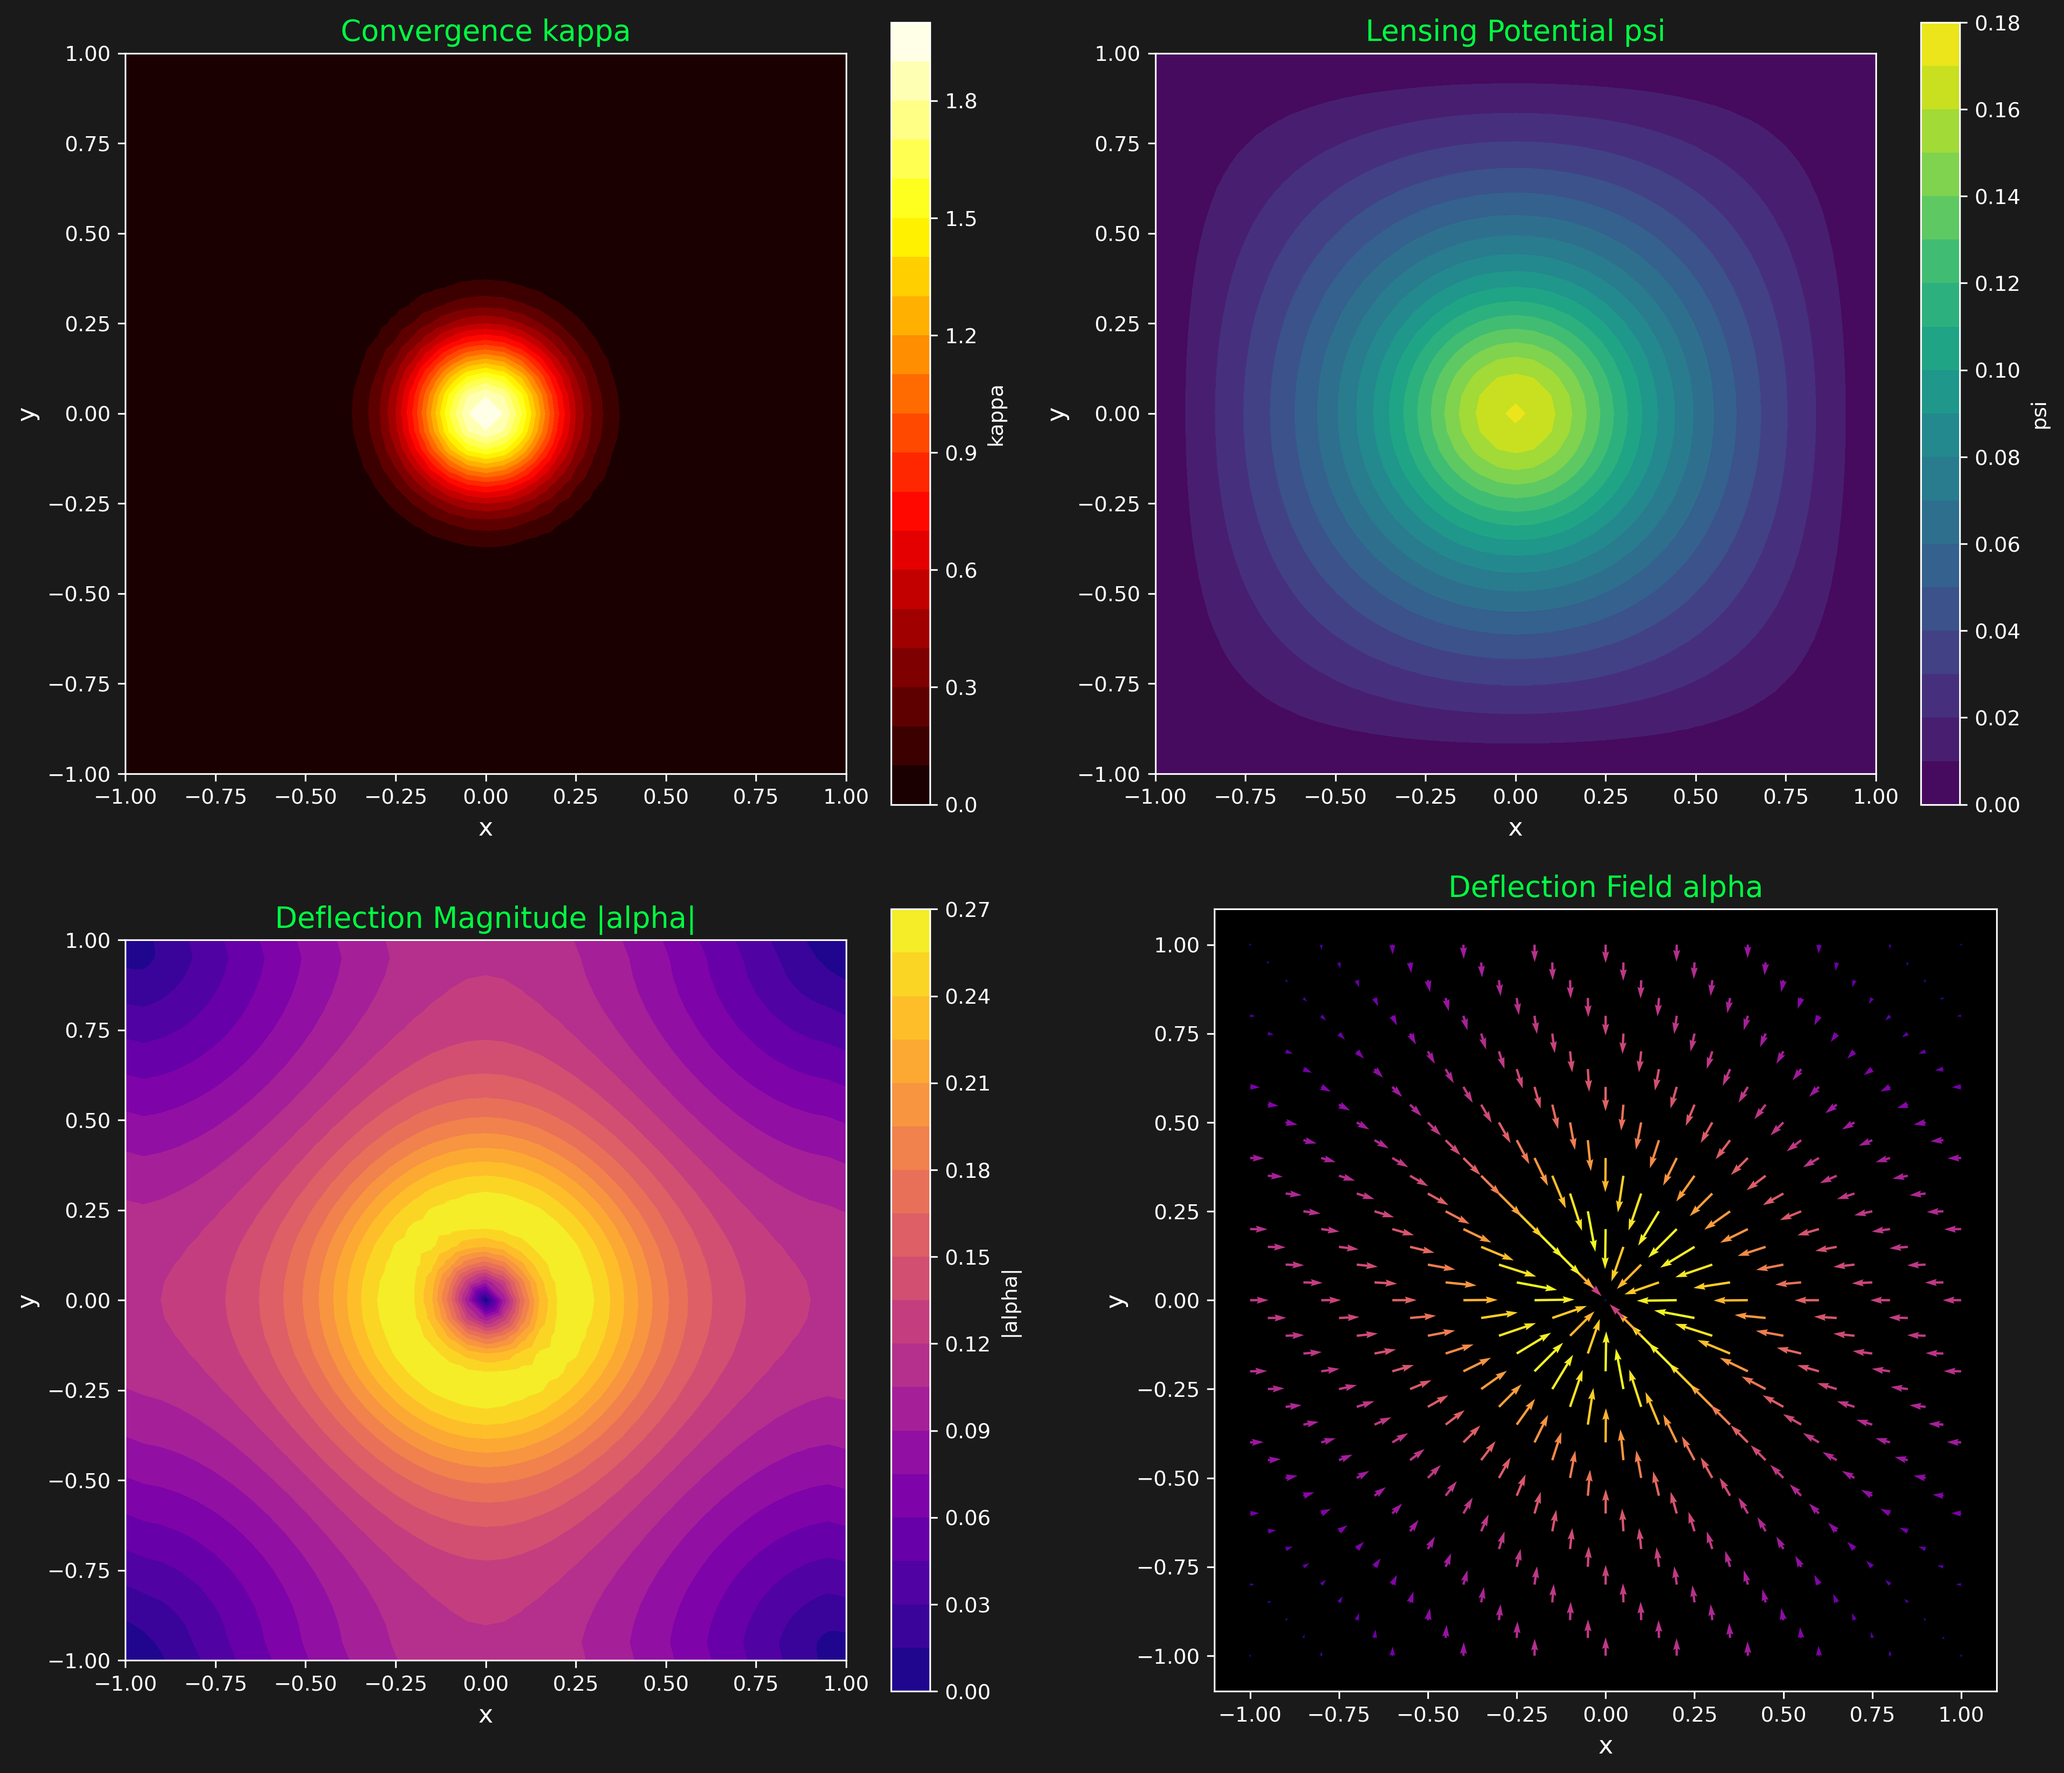
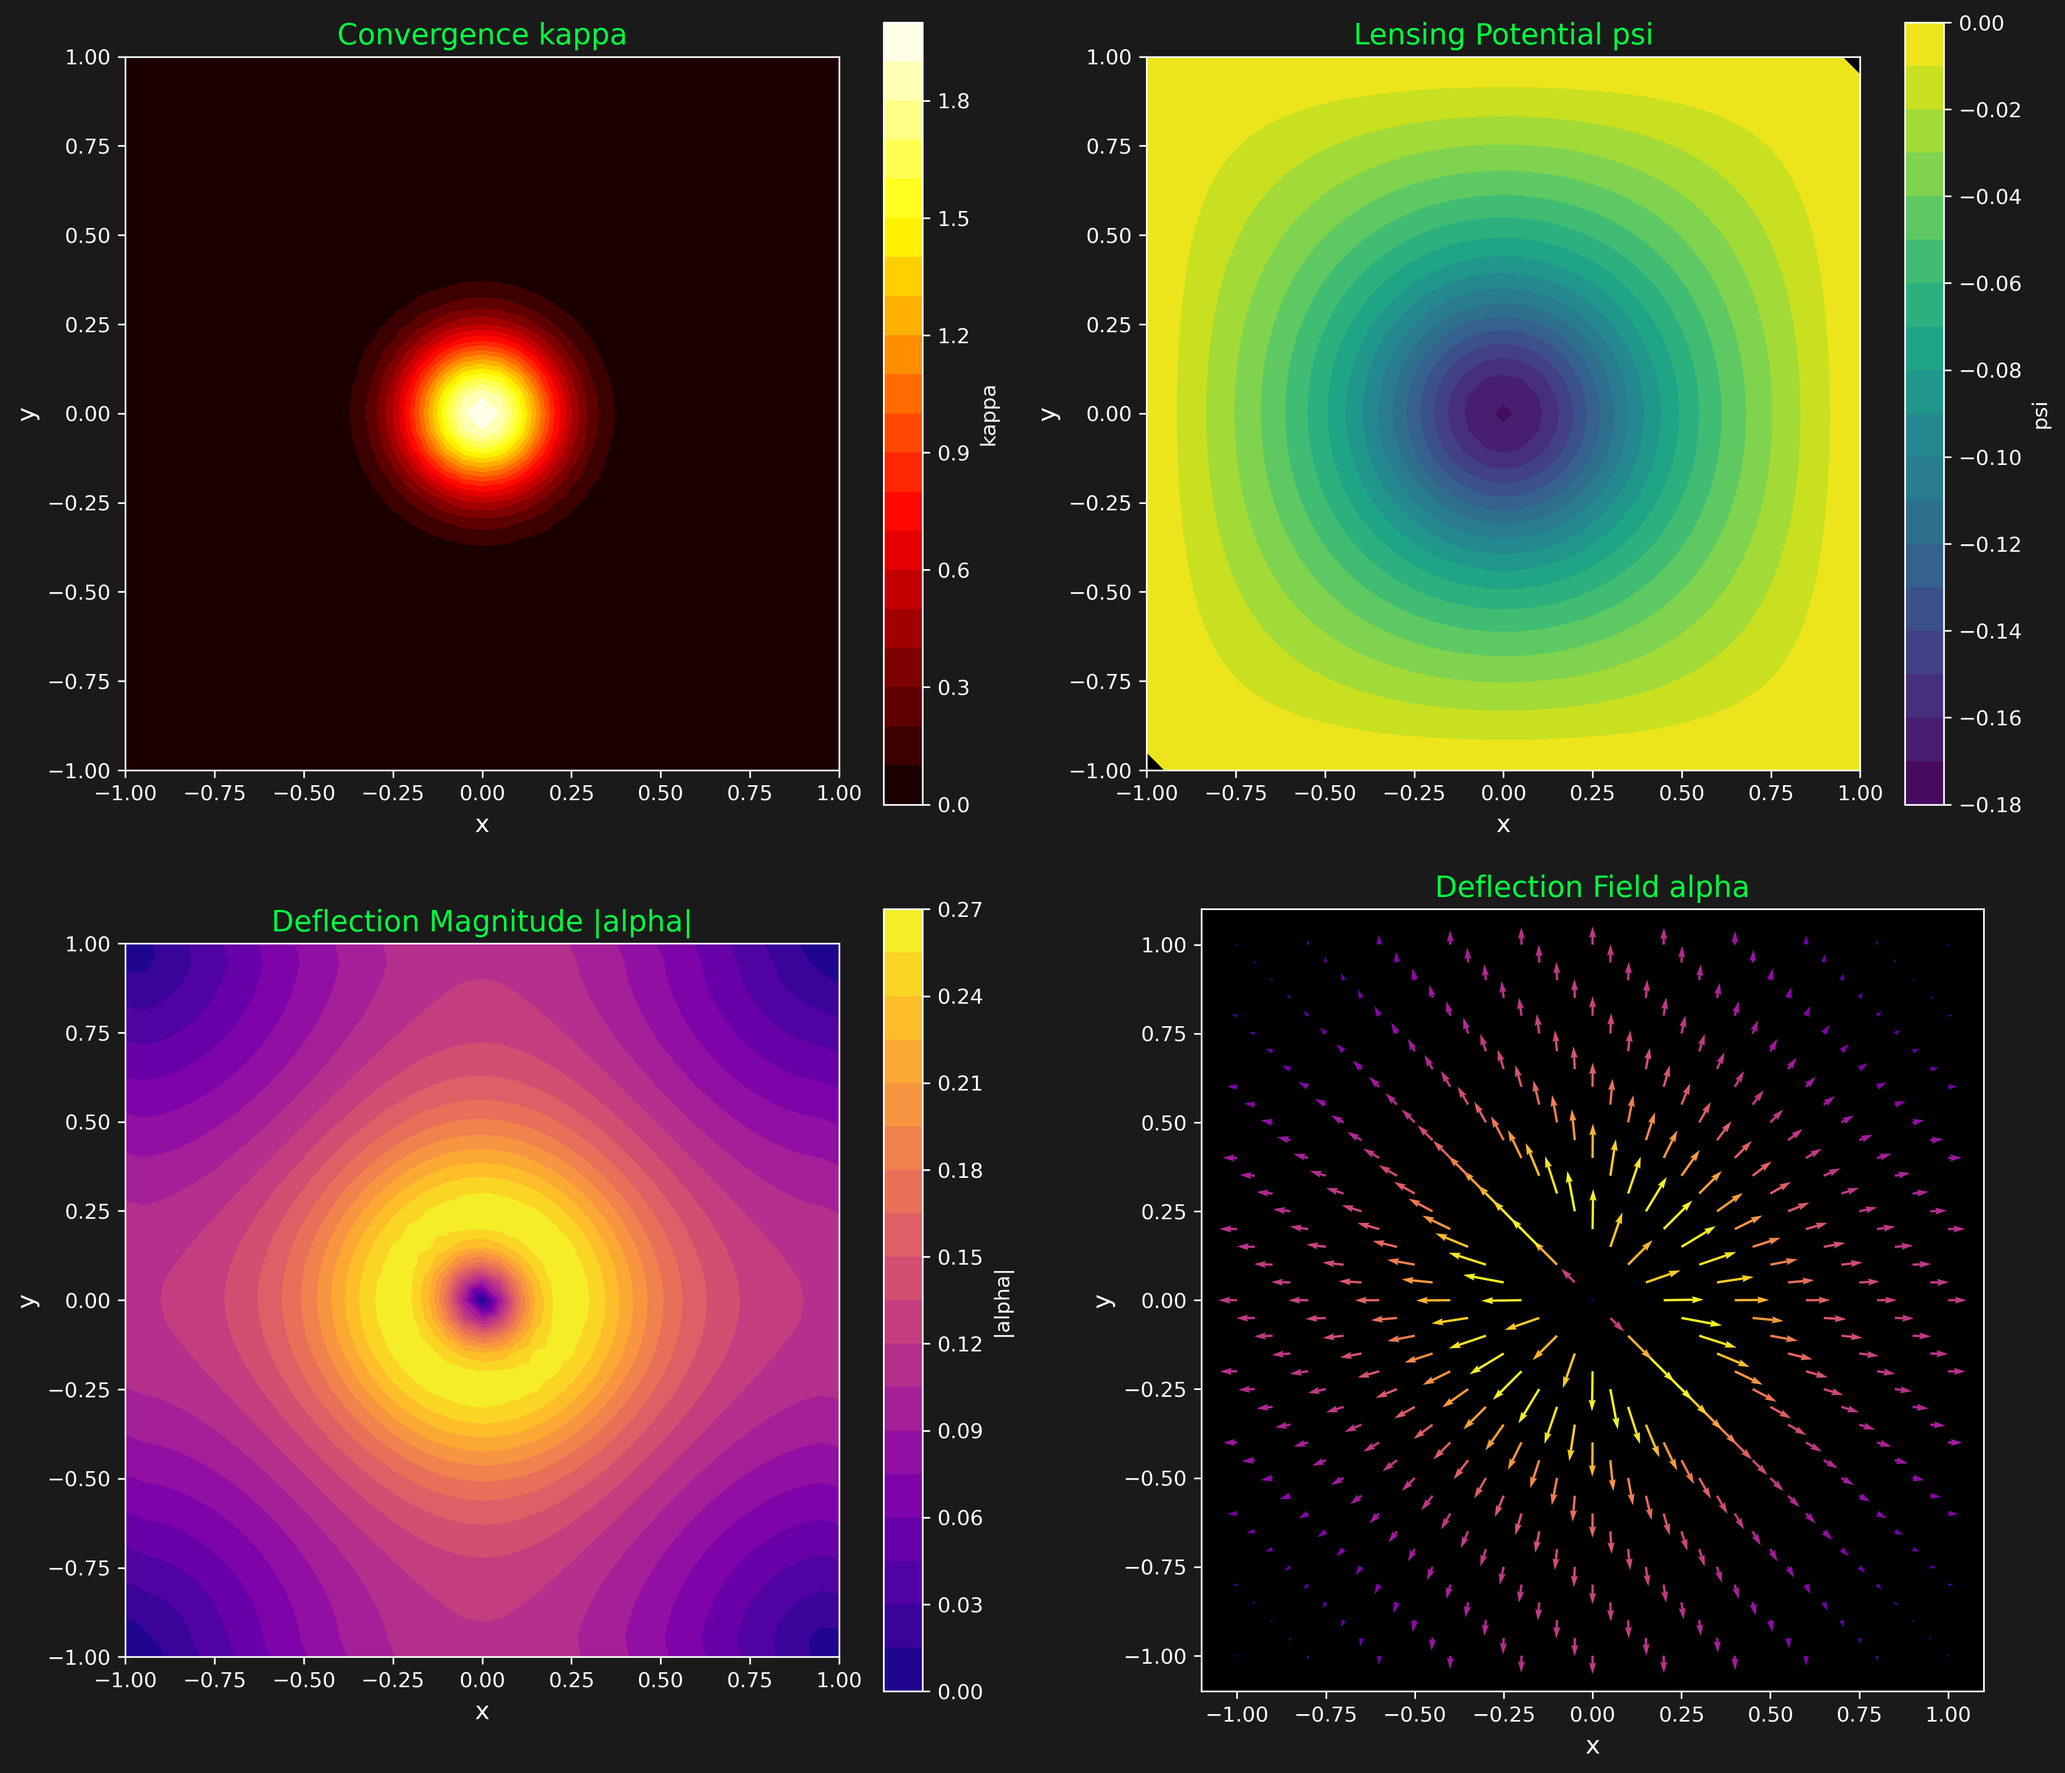
added the negative sign back

diff --git a/weak_lensing_poisson/src/fem_solver.py b/weak_lensing_poisson/src/fem_solver.py
@@ -136,8 +136,8 @@ def compute_element_load(coords: jnp.ndarray, kappa_vals: jnp.ndarray) -> jnp.nd
         area / 12.0
     )
     
-    # F^e = 2 * M * κ
-    F_elem = 2.0 * jnp.dot(M_elem, kappa_vals)
+    # F^e = -2 * M * κ
+    F_elem = -2.0 * jnp.dot(M_elem, kappa_vals)
     
     return F_elem
 
